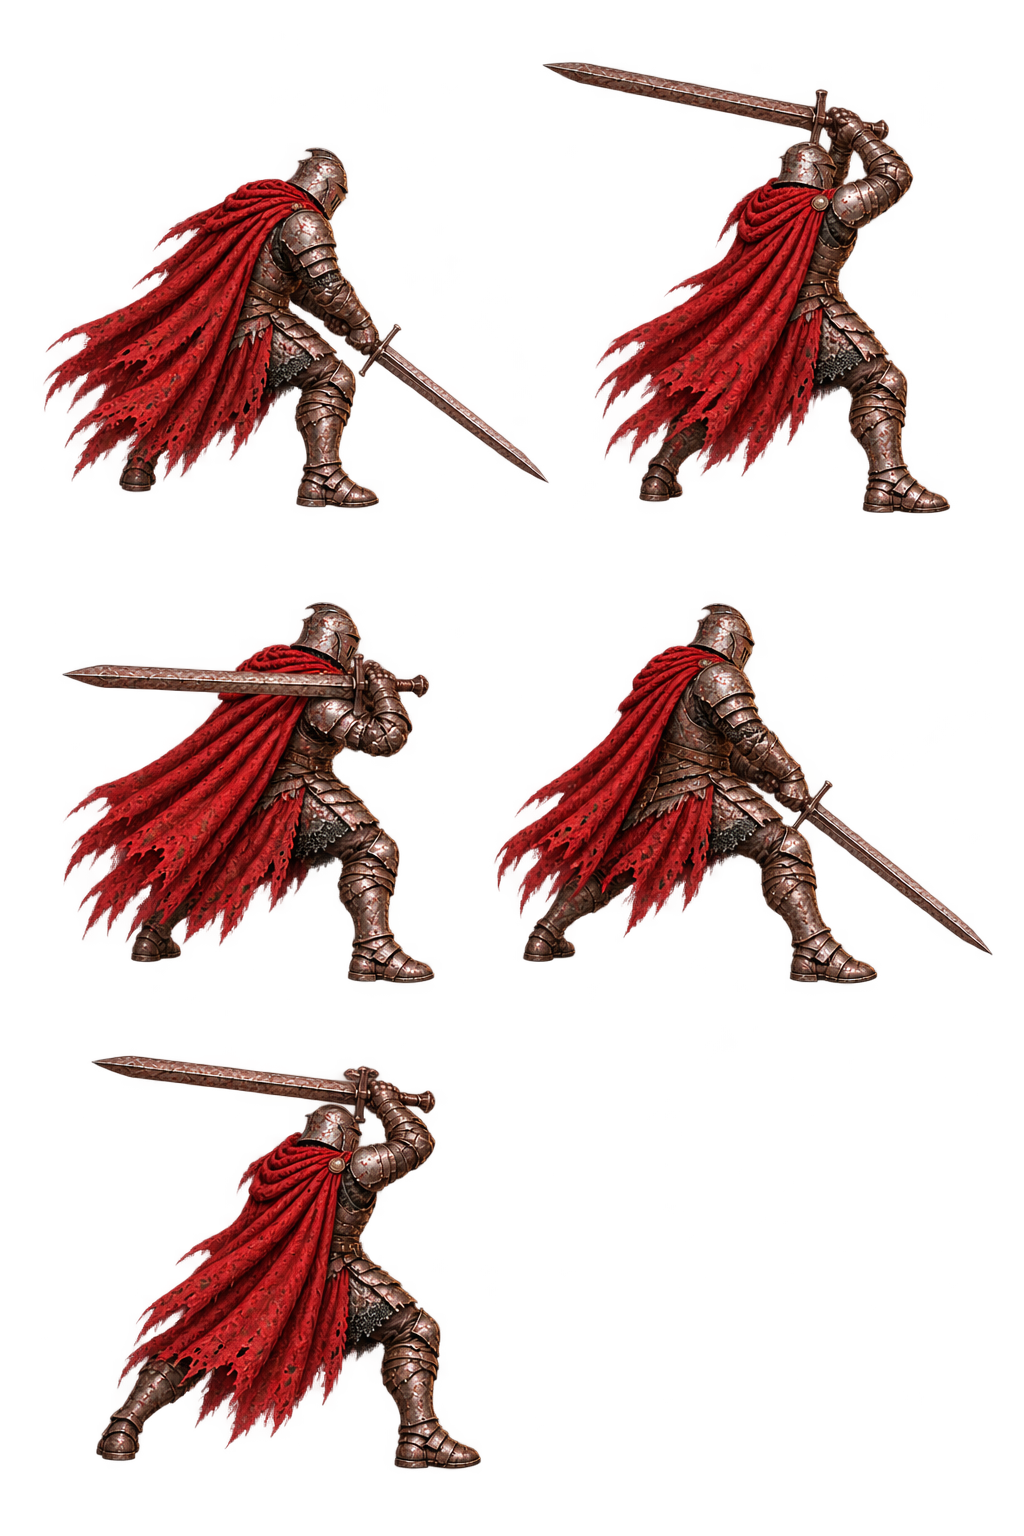
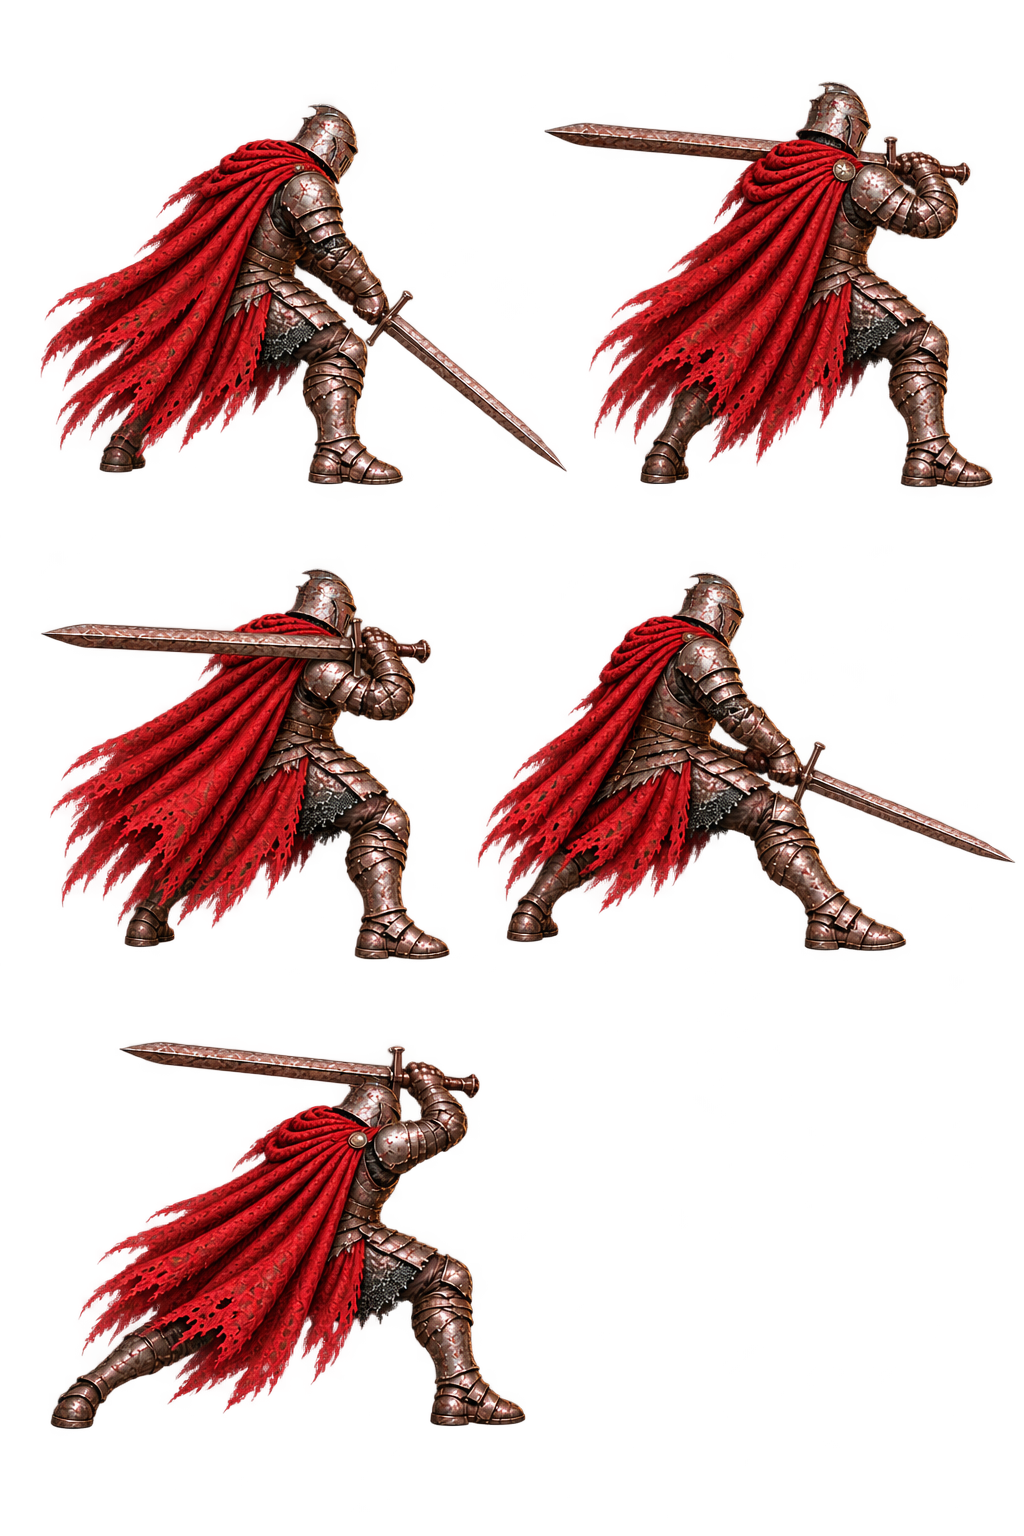
Add targeted greatsword sweep B revision

diff --git a/pose-studio/stances/update-stances/greatsword-sweep/selection-corrections.md b/pose-studio/stances/update-stances/greatsword-sweep/selection-corrections.md
@@ -1,10 +1,11 @@
 # Output attribution correction
 
-The worker incorrectly selected files by sorting `/workspace/generated_images` by modification time after concurrent imagegen calls. That method attributed unrelated outputs to Sweep. Selection now uses only the explicit path returned by each imagegen call.
+The worker initially selected files by sorting `/workspace/generated_images` by modification time after concurrent imagegen calls. That method included unrelated outputs. Selection now uses only the explicit path returned by each imagegen call. The unrelated files were removed from this folder; their hashes are retained here for audit.
 
[9 lines of base64/hex data omitted]
 
 This was a worker file-selection error. The image generation tool was not the cause.

diff --git a/pose-studio/stances/update-stances/greatsword-sweep/README.md b/pose-studio/stances/update-stances/greatsword-sweep/README.md
@@ -1,7 +1,7 @@
 # Greatsword sweep options
 
-`sheet-a.png` is the explicit returned grip-edit output approved by root as five concept candidates. Its candidate mapping is recorded in the provenance. `sheet-a-original.png` preserves the earlier unedited concept board; `sheet-a-revision-pass1.original.png` preserves the earlier grip-revision pass.
+`sheet-a.png` is the explicit returned grip-edit output approved by root as five concept candidates. `sheet-a-original.png` preserves the earlier unedited concept board; `sheet-a-revision-pass1.original.png` preserves the earlier revision pass.
 
-`sheet-b.png` is the explicit returned output for SW16–SW20 and is the source for one targeted B edit. Its board is pending that edit and director review. Do not use old files selected by directory timestamp; the correction record explains the worker selection error and the verified hashes.
+`sheet-b-original.png` is the verified SW16–SW20 source board. `sheet-b.png` is the single authorized edit from that exact source and is pending root review, especially for SW20's high weapon position. No B pose is approved for production yet.
 
-All source PNGs remain unchanged. These are concept candidates, not runtime assets. See the prompts and provenance files for exact imagegen inputs and returned paths.
+All source PNGs remain unchanged. These are concept candidates, not runtime assets. See the prompts, provenance, and selection-correction record for exact paths and hashes.
